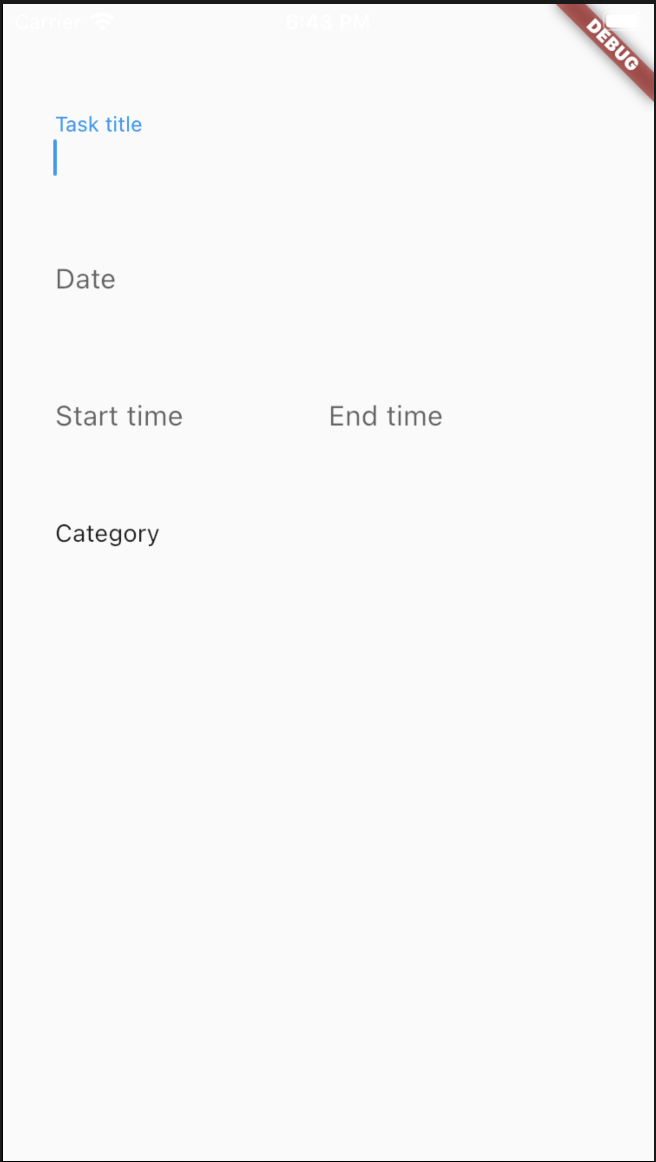
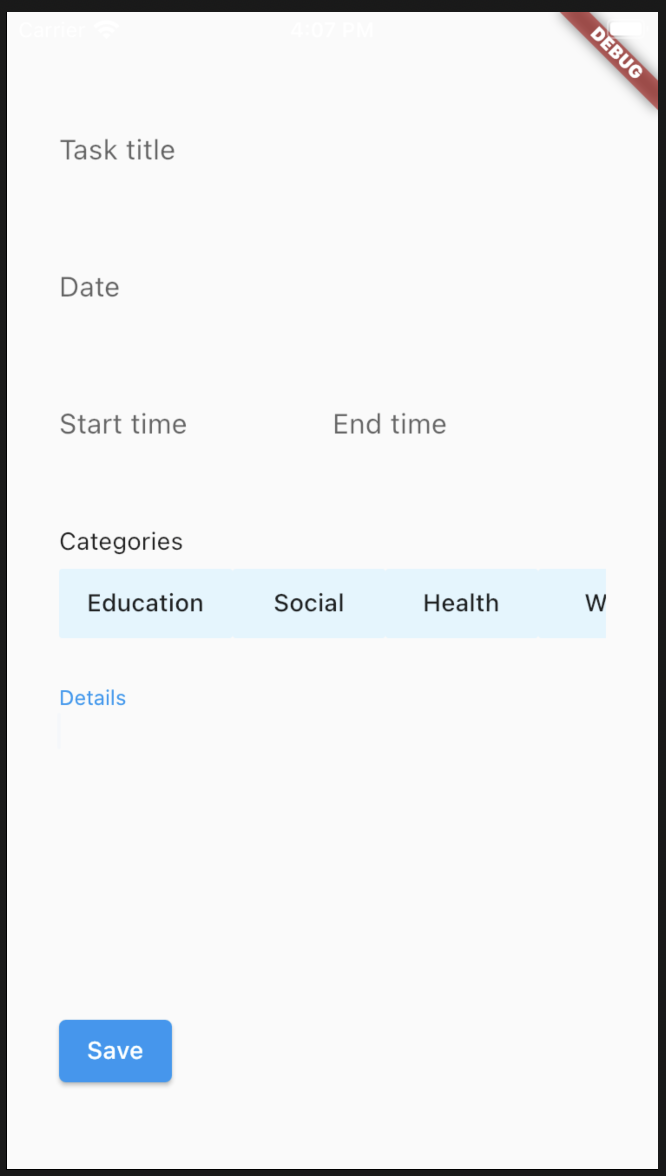
Finished schedule_task screen

diff --git a/lib/src/screens/schedule_task.dart b/lib/src/screens/schedule_task.dart
@@ -8,7 +8,19 @@ class ScheduleTaskScreen extends StatefulWidget{
 }
 
 class _scheduleTaskScreenState extends State<StatefulWidget>{
-   Widget build(BuildContext context) {
+  final startTextFieldController = TextEditingController();
+  final endTextFieldController = TextEditingController();
+  final taskTitleFieldController = TextEditingController();
+  final dateFieldController = TextEditingController();
+  final detailsFieldController = TextEditingController();
+  String _finalCategory;
+  String _currentCategory;
+  String _taskTitle;
+  String _date;
+  String _startTime;
+  String _endTime;
+  String _details;
+  Widget build(BuildContext context) {
     return Scaffold(
       key: Key('schedule_task_screen'),
       body: SingleChildScrollView(
@@ -20,67 +32,87 @@ class _scheduleTaskScreenState extends State<StatefulWidget>{
             child: renderTaskScheduling()),)
     );
   }
-}
 
-Widget renderTaskScheduling(){
-  return Column(
+Widget renderTaskScheduling()=> Column(
     crossAxisAlignment: CrossAxisAlignment.start,
     children: <Widget> [
       SizedBox(height:30),
-      _renderTextField('Task title'),
+      _renderTextField('Task title', taskTitleFieldController),
       SizedBox(height:20),
-      _renderTextField('Date'),
+      _renderTextField('Date', dateFieldController),
       SizedBox(height:20),
-      _renderSideBySideText('Start time', 'End time'),
+      _renderSideBySideText('Start time',startTextFieldController, 'End time',endTextFieldController),
       SizedBox(height: 30),
       Container(child: Text('Categories')),
       SizedBox(height:7),
       _renderCategoryChoices(),
       SizedBox(height:15),
-      Container(child: Text('Details')),
+      _renderTextField('Details', detailsFieldController),
+      SizedBox(height: 140),
+      _renderSaveButton(),
     ],);
-}
 
-Widget _renderTextField(String title) => TextField(
+Widget _renderTextField(String title, TextEditingController textFieldLabel) => TextField(
+  key: Key('text_field_$title'),
+  controller: textFieldLabel,
   decoration: InputDecoration(
     border: InputBorder.none,
     labelText: title,
   ),
 );
 
-Widget _renderSideBySideText(String left, String right) => Row(
+Widget _renderSideBySideText(String left, TextEditingController leftFieldLabel, String right, TextEditingController rightFieldLabel) => Row(
+  key: Key('side_by_side_text_$left'+'_$right'),
   children: <Widget>[
-    Expanded(child: _renderTextField(left),),
-    Expanded(child: _renderTextField(right)),
+    Expanded(child: _renderTextField(left,leftFieldLabel)),
+    Expanded(child: _renderTextField(right,rightFieldLabel)),
   ],
 );
 
-Widget _renderCategoryChoices(){
-  var catButtons = new List<Widget>();
-  for(int i = 0; i < TASK_CATEGORIES.length; i++){
-    catButtons.add(
-      FlatButton(
-        onPressed: () {},
-        child: Text(TASK_CATEGORIES[i]),
-        color: Colors.lightBlue[50],
-      )
-    );
-  }
-  return Row(
-      key: Key('toggle buttons category choice'),
-      children: catButtons,
-  );
-}
+Widget _renderCategoryChoices() => Container(
+      height: 40,
+      child: ListView.builder(
+        shrinkWrap: true,
+        scrollDirection: Axis.horizontal,
+        itemCount: TASK_CATEGORIES.length,
+        itemBuilder: (context,index){
+        final category = TASK_CATEGORIES[index];
+        return Container(
+          child: FlatButton(
+              //key: 
+              onPressed: () {
+                _currentCategory = category;
+              },
+              child: Text(category),
+              color: Colors.lightBlue[50],
+          ),
+        );
+      }
+  ));
 
-/*
-void colourButtons(int x, List<Widget> catButtons){
-  for(int i = 0; i < catButtons.length; i++){
-    if(i == x){
-      catButtons[i] = FlatButton(
-        onPressed: () { colourButtons(i, catButtons);},
-        child: Text(TASK_CATEGORIES[i]),
-        color: Colors.lightBlue[300],
-      );
-    }
+Widget _renderSaveButton() =>  ElevatedButton(
+    key: Key('save_scheduled_task_button'),
+    child: Text('Save'), 
+      onPressed: (){
+        _finalCategory = _currentCategory;
+        _currentCategory = null;
+        _taskTitle = taskTitleFieldController.text;
+        taskTitleFieldController.clear();
+        _date = dateFieldController.text;
+        dateFieldController.clear();
+        _startTime = startTextFieldController.text;
+        startTextFieldController.clear();
+        _endTime = endTextFieldController.text;
+        endTextFieldController.clear();
+        _details = detailsFieldController.text;
+        detailsFieldController.clear();
+      }
+);
+
+void dispose() {
+    // Clean up the controller when the widget is disposed.
+    startTextFieldController.dispose();
+    super.dispose();
   }
-}*/
+
+}

diff --git a/test/src/screens/schedule_task_test.dart b/test/src/screens/schedule_task_test.dart
@@ -1,0 +1,22 @@
+import 'package:flutter/material.dart';
+import 'package:flutter_test/flutter_test.dart';
+
+import 'package:time_tracker/src/screens/schedule_task.dart';
+import 'package:time_tracker/src/resources/task_categories.dart';
+
+import '../../test_helper.dart';
+
+void main(){
+  testWidgets('Schedule Task Test', (WidgetTester tester) async {
+    final screen = ScheduleTaskScreen();
+    await tester.pumpWidget(TestHelper.makeTestableWidget(screen));
+    
+    // Assert each of the 5 list tiles representing tasks are present
+    expect(find.byKey(Key('text_field_Task title')), findsOneWidget);
+    expect(find.byKey(Key('text_field_Date')), findsOneWidget);  
+    expect(find.byKey(Key('text_field_Start time')), findsOneWidget);
+    expect(find.byKey(Key('text_field_End time')), findsOneWidget); 
+    expect(find.byKey(Key('text_field_Categories')), findsOneWidget);  
+    expect(find.byKey(Key('text_field_Details')), findsOneWidget); 
+  }
+}
